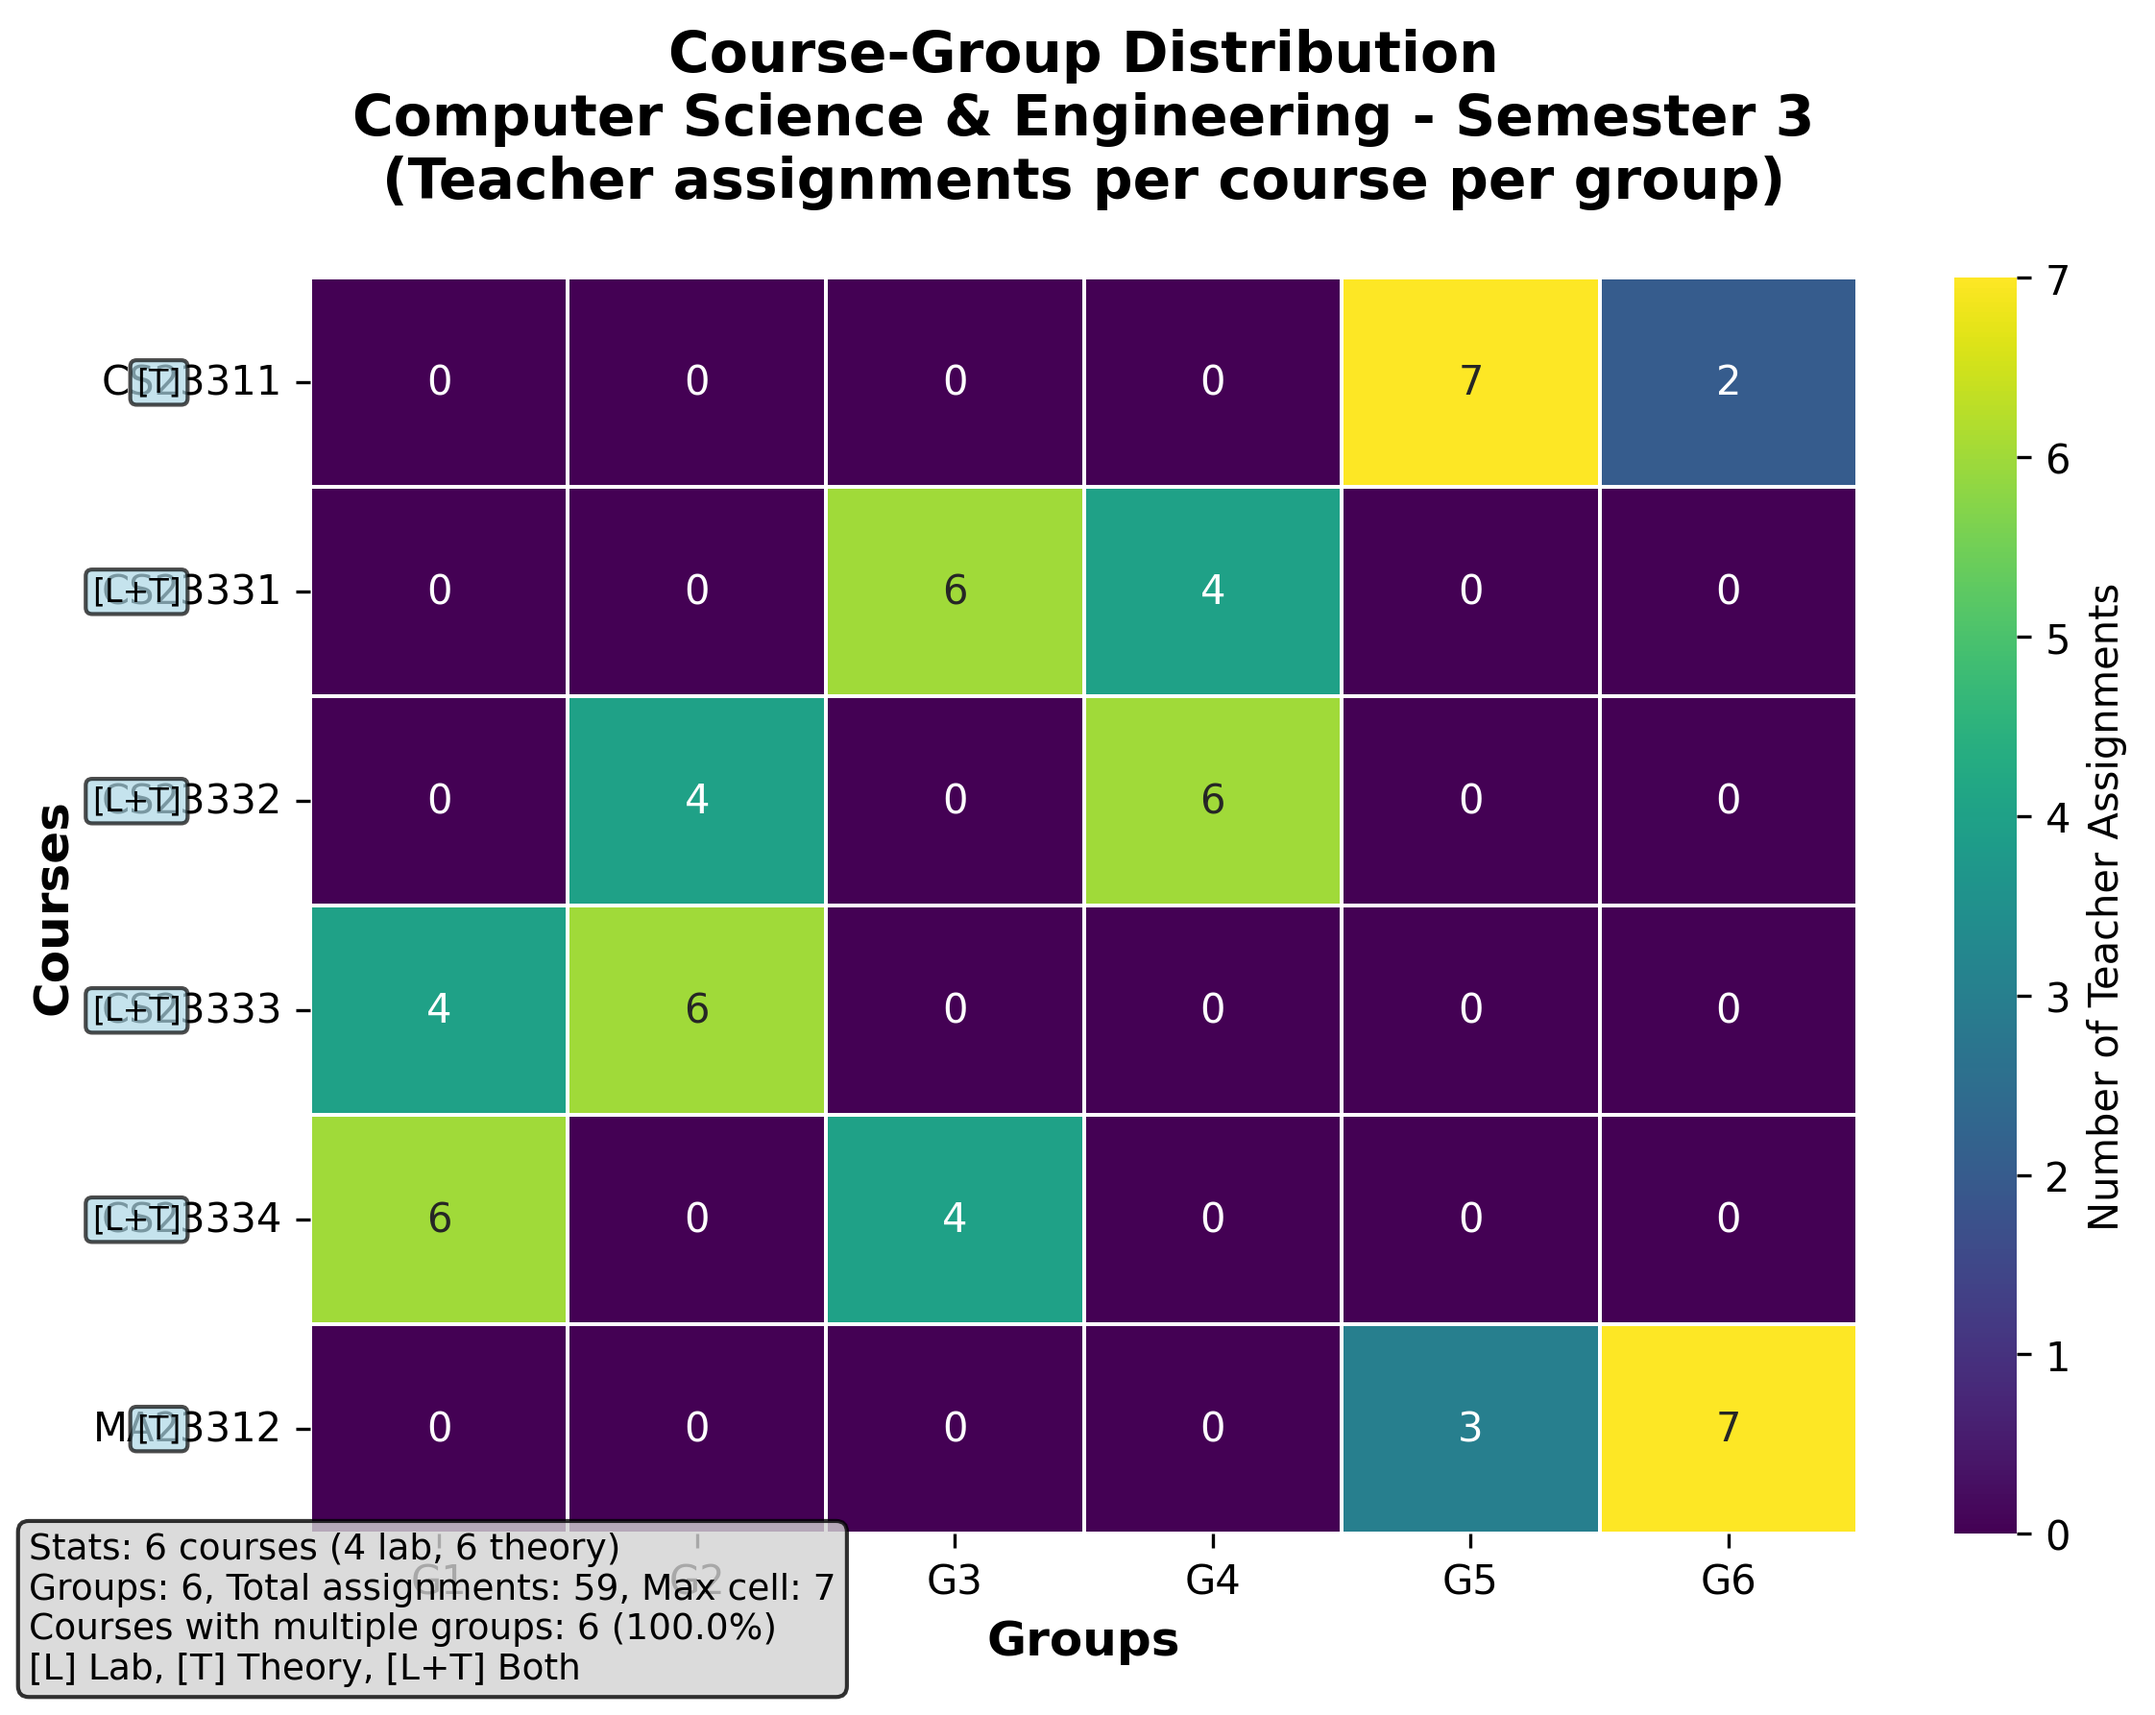
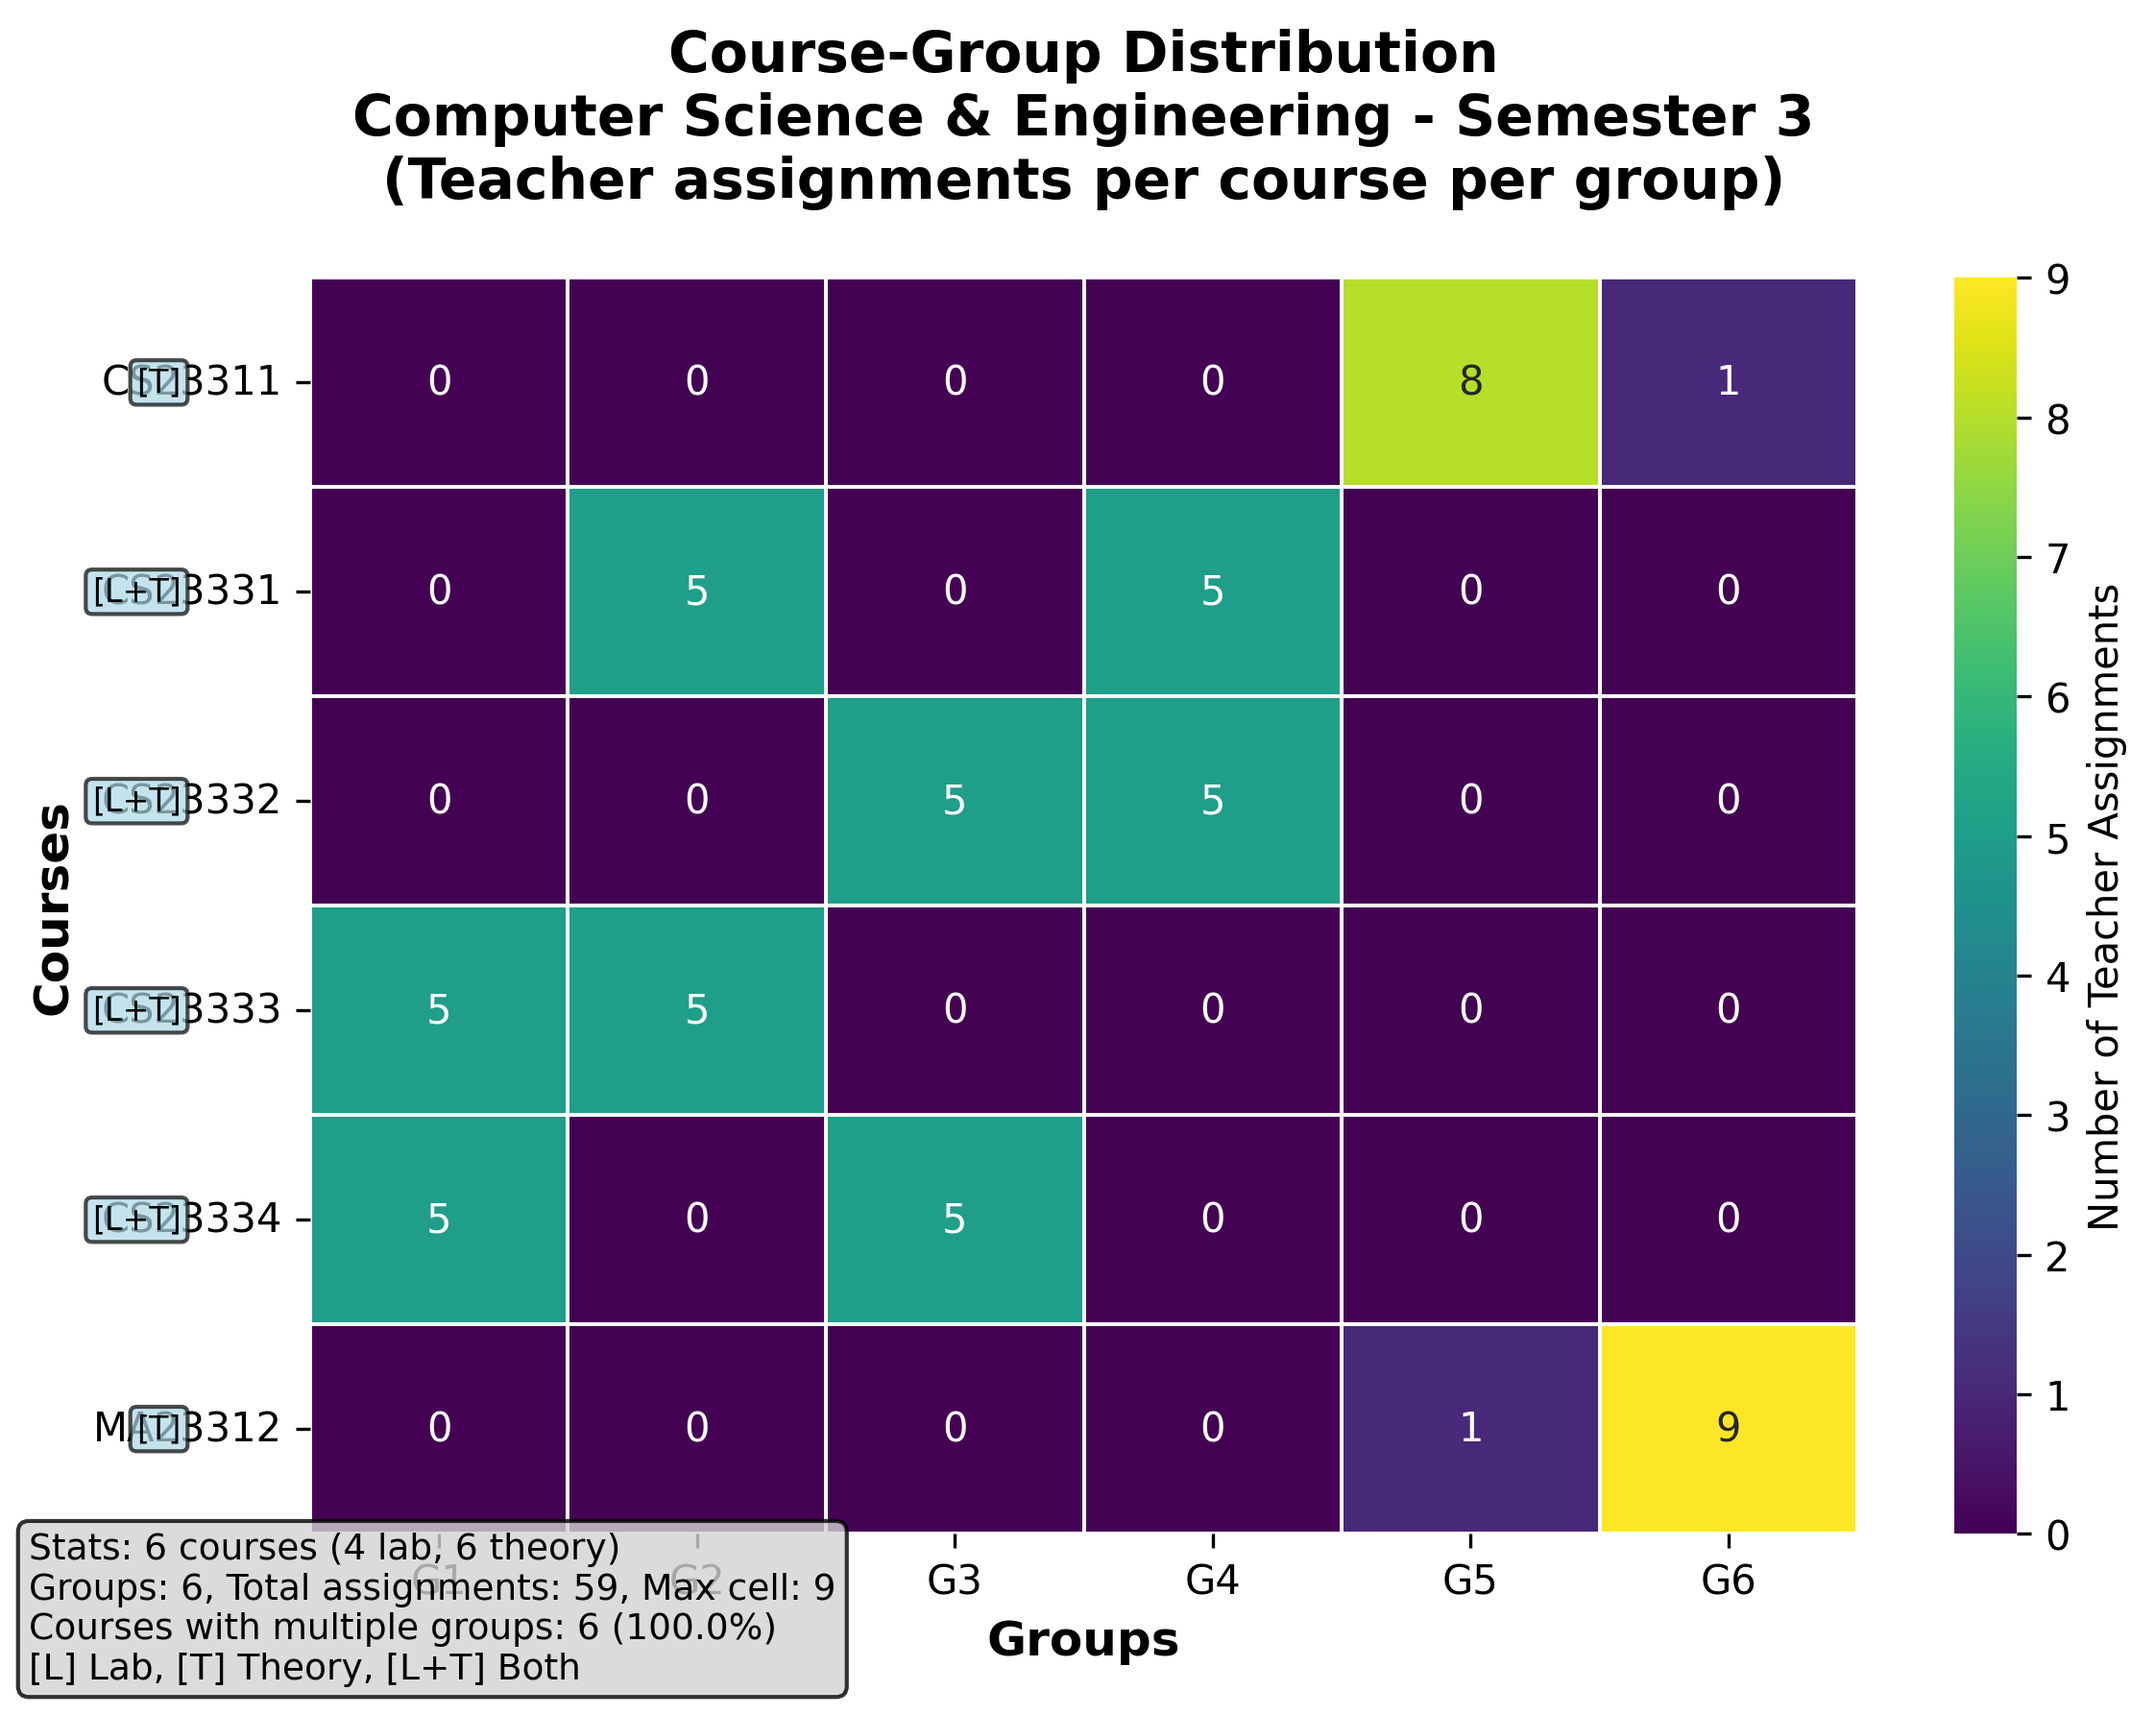
added max utlization penalty for theory room

diff --git a/src/constraints/theory/room_assignment.py b/src/constraints/theory/room_assignment.py
@@ -42,6 +42,7 @@ class TheoryClassroomAssignmentConstraint(Constraint):
 		settings = dict(params or {})
 		self._big_threshold = max(1, int(settings.get("big_capacity_threshold", 140)))
 		self._overflow_penalty = max(0, int(settings.get("overflow_penalty", 5)))
+		self._utilization_penalty = max(0, int(settings.get("utilization_penalty", 10)))
 		self._default_blocks = self._normalise_block_list(settings.get("default_blocks") or ("A Block", "B Block", "C Block"))
 		self._senior_blocks = self._normalise_block_list(settings.get("senior_blocks") or ("A Block", "B Block"))
 		self._second_year_blocks = self._normalise_block_list(settings.get("second_year_blocks") or ("B Block", "C Block"))
@@ -176,6 +177,24 @@ class TheoryClassroomAssignmentConstraint(Constraint):
 						active_indicators.append(is_active)
 						# If active, sum <= limit. If not active, sum == 0.
 						model.Add(sum(vars_for_code) <= limit * is_active)
+						
+						# Maximise usage: if active, prefer filling up to limit
+						if self._utilization_penalty > 0:
+							# Penalty = P * (limit * is_active - sum(vars_for_code))
+							# Decomposed: P*limit*is_active (penalty) + P*sum(vars) (reward / negative penalty)
+							register_objective_penalty(
+								context,
+								is_active,
+								weight=limit * self._utilization_penalty,
+								tag="room_utilization:active_cost"
+							)
+							for v in vars_for_code:
+								register_objective_penalty(
+									context,
+									v,
+									weight=-self._utilization_penalty,
+									tag="room_utilization:fill_reward"
+								)
 					
 					# Only one code can be active
 					model.Add(sum(active_indicators) <= 1)
@@ -183,6 +202,26 @@ class TheoryClassroomAssignmentConstraint(Constraint):
 					# Only one code exists, just limit the count
 					vars_only = [v for _, v in usage_list]
 					model.Add(sum(vars_only) <= limit)
+					
+					# Maximise usage: if used, prefer filling up to limit
+					if self._utilization_penalty > 0:
+						room_used = model.NewBoolVar(f"used_{room_id}_{_day}_{_slot}")
+						model.Add(sum(vars_only) > 0).OnlyEnforceIf(room_used)
+						model.Add(sum(vars_only) == 0).OnlyEnforceIf(room_used.Not())
+						
+						register_objective_penalty(
+							context,
+							room_used,
+							weight=limit * self._utilization_penalty,
+							tag="room_utilization:active_cost"
+						)
+						for v in vars_only:
+							register_objective_penalty(
+								context,
+								v,
+								weight=-self._utilization_penalty,
+								tag="room_utilization:fill_reward"
+							)
 				
 				stats["room_conflict_constraints"] += 1
 
